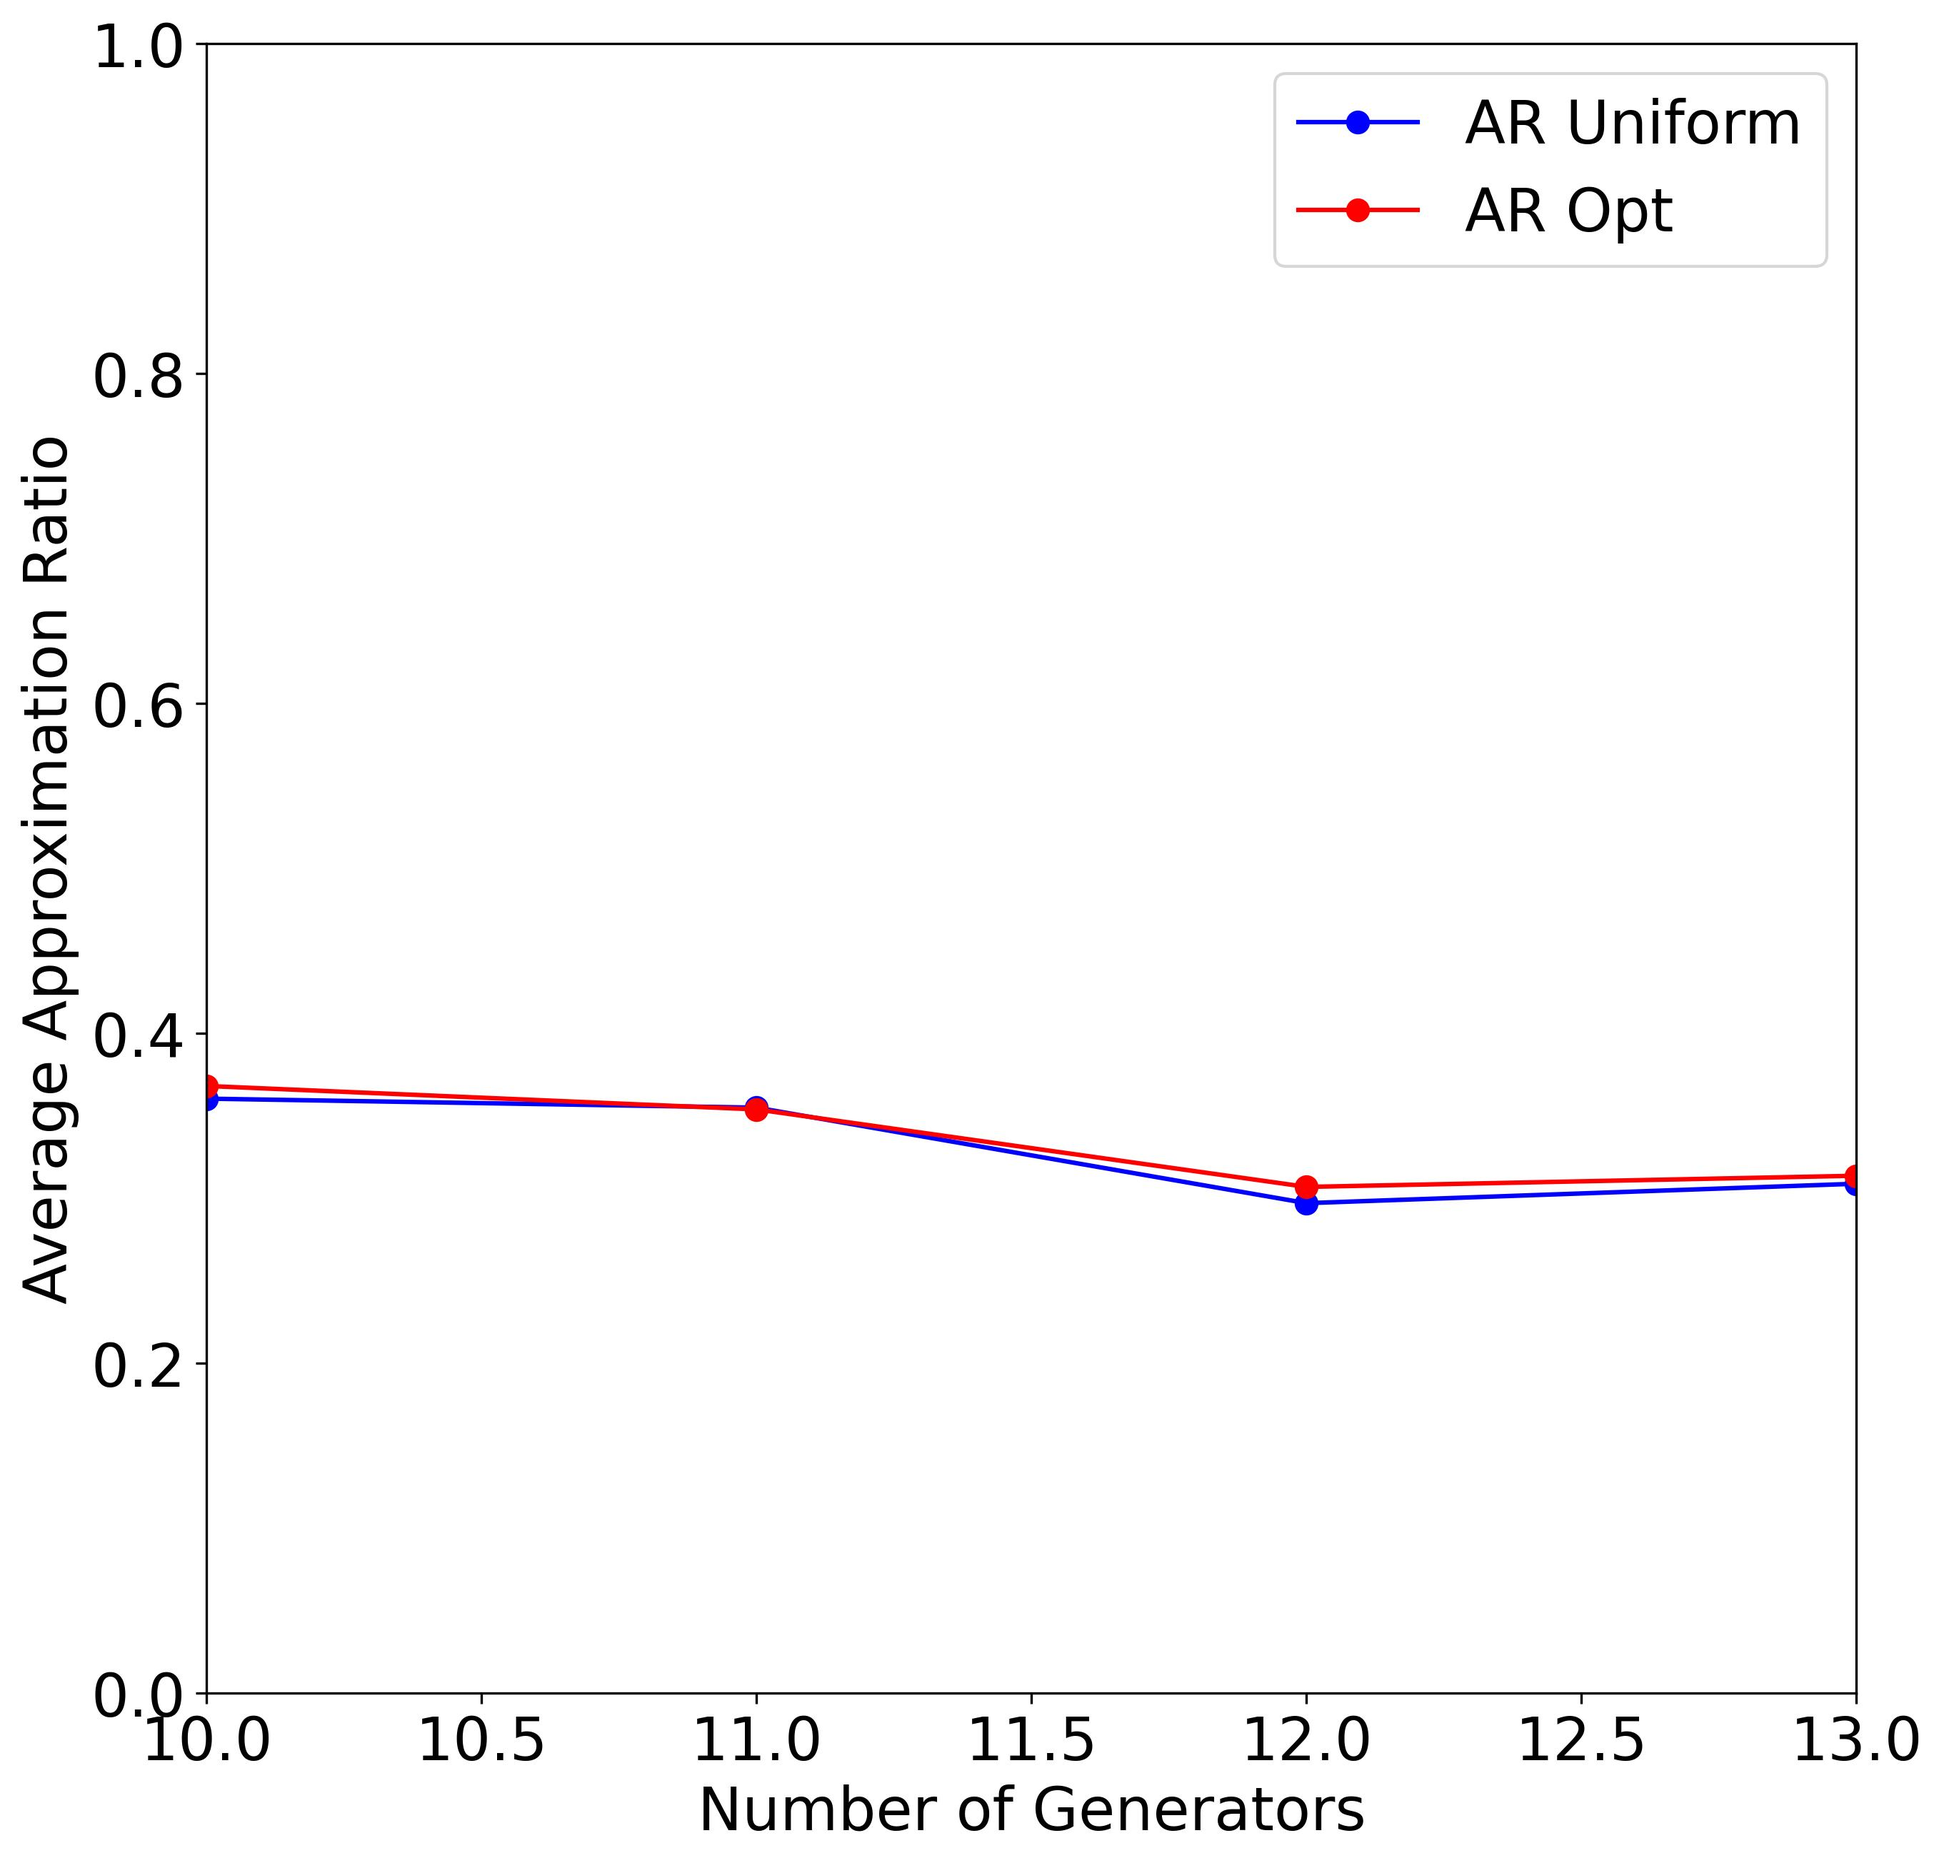
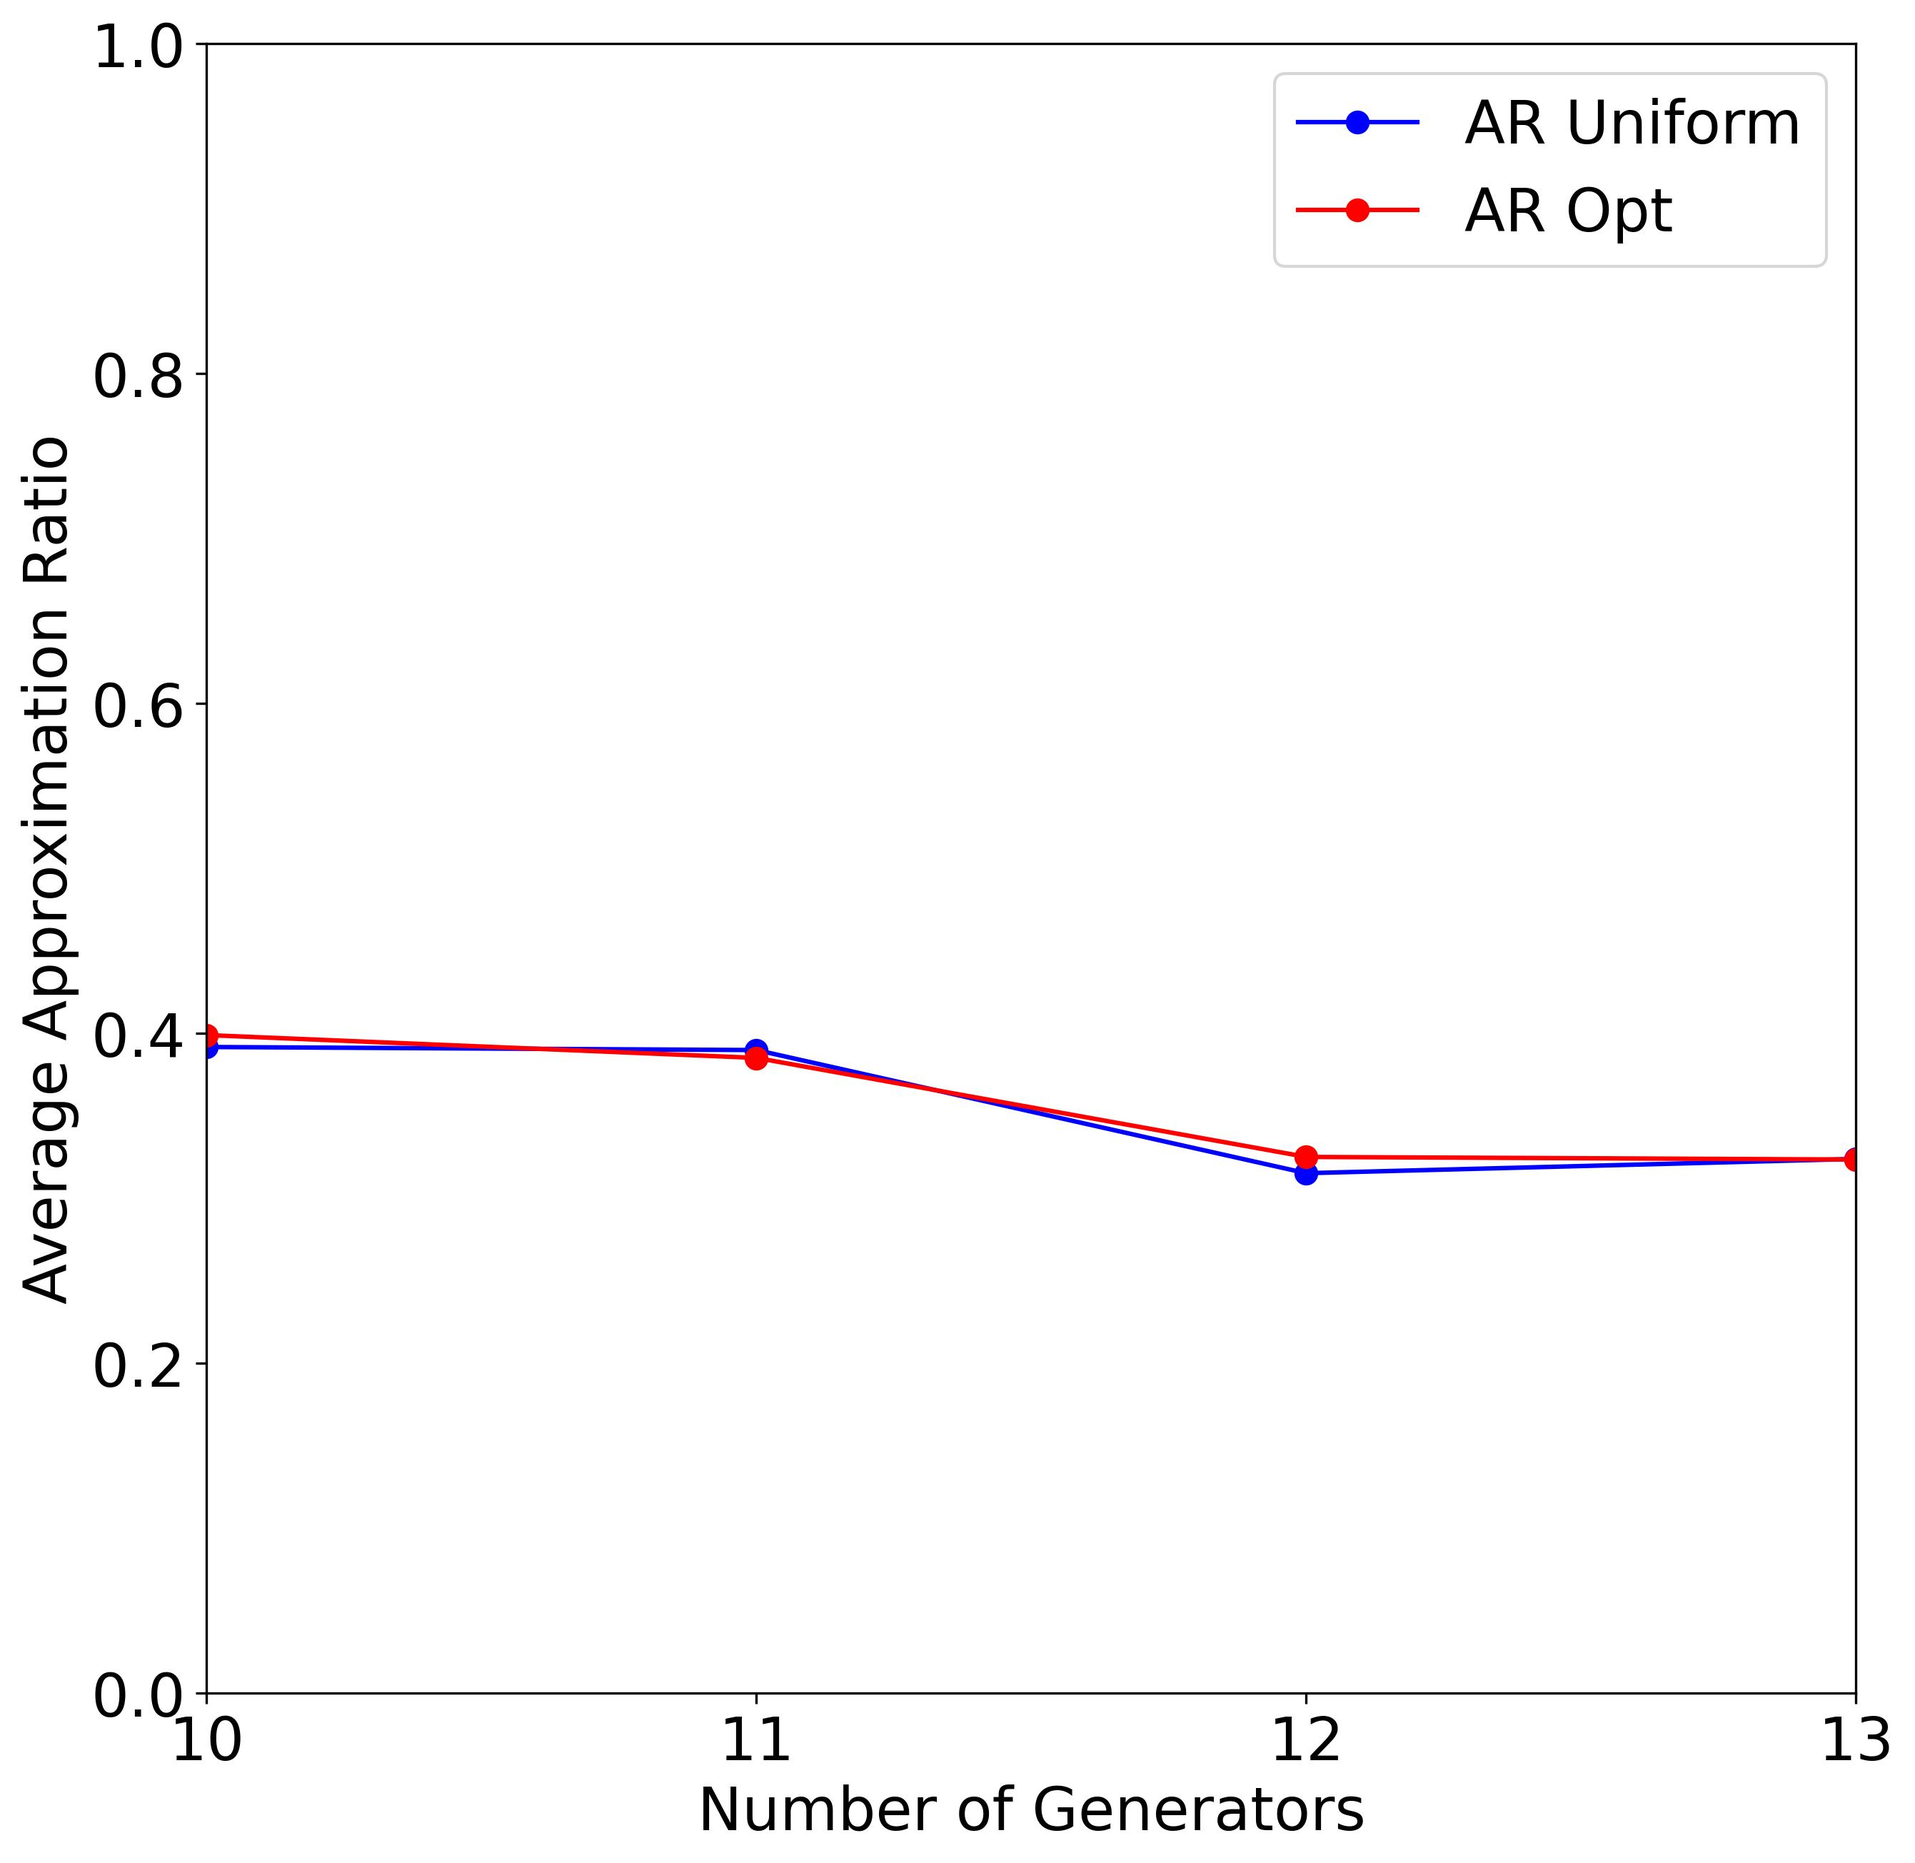
Cosmetic updates to AR plots

diff --git a/plots/power_grid_opt.py b/plots/power_grid_opt.py
@@ -96,21 +96,22 @@ def plot_history_diff():
 
 
 def plot_ar_vs_instance():
-    """Plots `ar_uniform_fun` and `ar_opt_fun` against instance index for the configured generator count."""
+    """Plots `ar_uniform_fun` and `ar_opt_fun` against row index for the configured generator count."""
     num_generators = 10
     df = load_dfs(num_generators, ["hybrid/nl_1"], 0)[0]
-    lines = [Line(df["instance"], df["ar_uniform_fun"], color=0, style="none", label="AR Uniform"),
-             Line(df["instance"], df["ar_opt_fun"], color=1, style="none", label="AR Opt")]
-    plot_general(lines, axis_labels=("Instance Index", "Approximation Ratio"), boundaries=(df["instance"].min(), df["instance"].max(), 0, 1))
+    lines = [Line(np.arange(len(df)), df["ar_uniform_fun"], color=0, style="none", label="AR Uniform"),
+             Line(np.arange(len(df)), df["ar_opt_fun"], color=1, style="none", label="AR Opt")]
+    plot_general(lines, axis_labels=("Instance index", "Approximation Ratio"), boundaries=(0, 99, 0, 1))
     save_figure()
 
 
 def plot_ar_diff_vs_instance():
-    """Plots `ar_opt_fun - ar_uniform_fun` against instance index for the configured generator count."""
+    """Plots `ar_opt_fun - ar_uniform_fun` against row index for the configured generator count."""
     num_generators = 10
     df = load_dfs(num_generators, ["hybrid/nl_1"], 0)[0]
-    lines = [Line(df["instance"], df["ar_opt_fun"] - df["ar_uniform_fun"], marker="none", label="AR Opt - AR Uniform")]
-    plot_general(lines, axis_labels=("Instance Index", "Opt - Uniform AR Diff"), boundaries=(df["instance"].min(), df["instance"].max(), -0.4, 0.4))
+    lines = [Line(np.arange(len(df)), df["ar_opt_fun"] - df["ar_uniform_fun"], style="none", label="AR Opt - AR Uniform"),
+             Line([0, len(df) - 1], [0, 0], color="black", marker="none", style="--")]
+    plot_general(lines, axis_labels=("Instance index", "Opt - Uniform AR Diff"), boundaries=(0, 99, -0.4, 0.4))
     save_figure()
 
 
@@ -121,6 +122,7 @@ def plot_average_ar_vs_generators():
     lines = [Line(generator_counts, [df["ar_uniform_fun"].mean() for df in dfs], color=0, label="AR Uniform"),
              Line(generator_counts, [df["ar_opt_fun"].mean() for df in dfs], color=1, label="AR Opt")]
     plot_general(lines, axis_labels=("Number of Generators", "Average Approximation Ratio"), boundaries=(min(generator_counts), max(generator_counts), 0, 1))
+    plt.gca().xaxis.set_major_locator(plt.MaxNLocator(integer=True))
     save_figure()
 
 
@@ -164,7 +166,7 @@ def extract_normalized_solver_histories(solver_dfs: list[pd.DataFrame], time_gri
     """
     assert all(df.index.equals(solver_dfs[0].index) for df in solver_dfs[1:]), "Solver data frames must share row indices."
     all_solver_histories = [extract_solver_histories(df, violation_tolerance, time_grid[-1]) for df in solver_dfs]
-    best_objectives = get_best_objectives(all_solver_histories)
+    best_objectives = extract_best_objectives(all_solver_histories)
     return [get_average_normalized_history(time_grid, solver_histories, best_objectives) for solver_histories in all_solver_histories]
 
 
@@ -186,7 +188,7 @@ def extract_solver_histories(df: pd.DataFrame, violation_tolerance: float, max_t
     return histories
 
 
-def get_best_objectives(all_solver_histories: list[list[list[HistoryEntry] | None]]) -> list[float | None]:
+def extract_best_objectives(all_solver_histories: list[list[list[HistoryEntry] | None]]) -> list[float | None]:
     """Finds the best known feasible objective for each instance.
     :param all_solver_histories: Histories indexed by: 0) solver ind; 1) instance ind; 2) HistoryEntry index.
     :return: Lowest objective found by any loaded solver for each instance.
@@ -225,12 +227,9 @@ def get_average_normalized_history(time_grid: Sequence[float], solver_histories:
 
 if __name__ == "__main__":
     # plot_instance_objective_histories()
-    # plot_polar_vs_rectangular()
     # plot_average_histories()
-    # plot_ar_vs_instance()
-    # plot_ar_diff_vs_instance()
-    # plot_average_ar_vs_generators()
     # plot_history_diff()
+    # plot_ar_vs_instance()
     # plot_ar_diff_vs_instance()
     plot_average_ar_vs_generators()
     plt.show()
